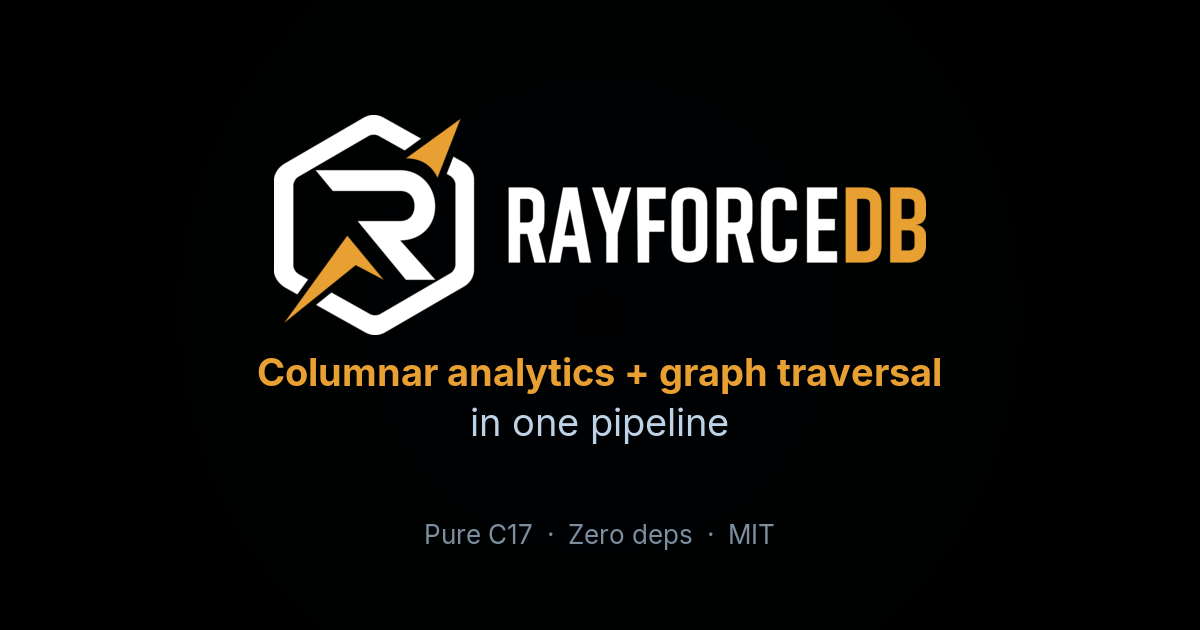
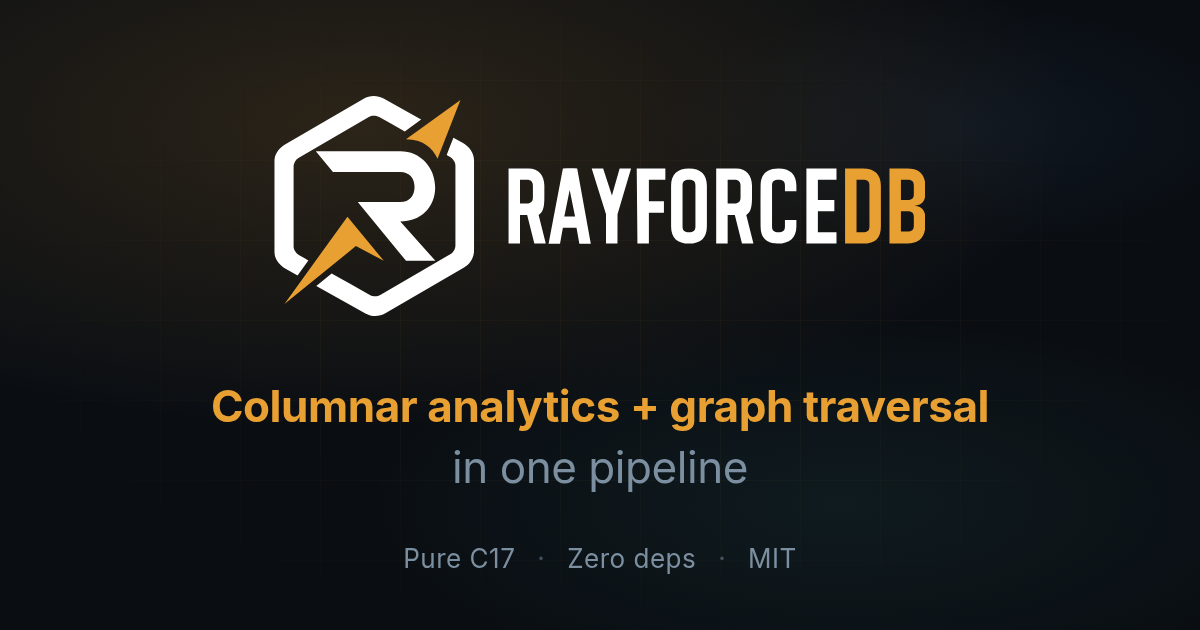
fix(seo): match OG image background to the site's hero
The previous OG image used a flat #0a0e13 base with a soft #1a1c20 ->
#0a0e13 multiply vignette, which read as plain black in Telegram /
Twitter unfurlers and didn't carry the brand. The site's hero is
deliberately layered: a warm orange radial top-left, weaker cyan and
blue radials on the opposite corners, and a faint 80px orange grid
masked at the edges. Regenerate og-image.png so the link preview
echoes that look instead of looking like default dark mode.

Also lands a reproducible build pipeline at scripts/og/ so the next
tweak is one command instead of shell archaeology:

- scripts/og/og.html mirrors the relevant hero CSS verbatim from
  website/style.css and embeds the local Inter / Oswald + the actual
  logo SVG, so the rendered preview stays in sync with the site
  (palette shifts touch both files in the same change).
- scripts/og/build.sh drives headless Chrome to screenshot, then
  crops with ImageMagick and re-encodes 8-bit non-alpha PNG24 to
  match the encoding contract from c1d1402e. The 1200x800 -> 1200x630
  crop compensates for headless Chrome reserving viewport rows for
  chrome UI even with --headless=new.

Resulting PNG is 293 KB, 1200x630, 8-bit sRGB non-alpha.

diff --git a/scripts/og/og.html b/scripts/og/og.html
@@ -1,0 +1,125 @@
+<!doctype html>
+<html lang="en">
+<head>
+  <meta charset="utf-8">
+  <title>OG image source</title>
+
+  <style>
+    /* ── Self-hosted fonts (mirrors website/style.css) ─────────────── */
+    @font-face {
+      font-family: 'Inter';
+      font-style: normal; font-weight: 400; font-display: block;
+      src: url('../../website/assets/fonts/inter-400.woff2') format('woff2');
+    }
+    @font-face {
+      font-family: 'Inter';
+      font-style: normal; font-weight: 700; font-display: block;
+      src: url('../../website/assets/fonts/inter-700.woff2') format('woff2');
+    }
+    @font-face {
+      font-family: 'Oswald';
+      font-style: normal; font-weight: 700; font-display: block;
+      src: url('../../website/assets/fonts/oswald-700.woff2') format('woff2');
+    }
+
+    /* ── Tokens (verbatim from website/style.css :root) ────────────── */
+    :root {
+      --bg: #0a0e13;
+      --primary: #e9a033;
+      --accent: #5eead4;
+      --accent-blue: #60a5fa;
+      --text: #f1f5f9;
+      --text-muted: #7b8fa0;
+    }
+
+    *, *::before, *::after { margin: 0; padding: 0; box-sizing: border-box; }
+
+    html, body {
+      margin: 0; padding: 0;
+      width: 1200px; height: 630px;
+      position: relative;
+      background: var(--bg);
+      color: var(--text);
+      font-family: 'Inter', sans-serif;
+      overflow: hidden;
+    }
+
+    /* ── Hero bg layers (verbatim from website/style.css:188-203) ──── */
+    .hero-bg { position: absolute; inset: 0; pointer-events: none; }
+
+    .hero-gradient {
+      position: absolute; inset: 0;
+      background:
+        radial-gradient(ellipse 100% 80% at 30% 20%, rgba(233, 160, 51, 0.15), transparent 60%),
+        radial-gradient(ellipse 80% 60% at 70% 80%, rgba(94, 234, 212, 0.06), transparent 50%),
+        radial-gradient(ellipse 50% 40% at 80% 20%, rgba(96, 165, 250, 0.06), transparent 50%);
+    }
+
+    .hero-grid-lines {
+      position: absolute; inset: 0;
+      background-image:
+        linear-gradient(rgba(233, 160, 51, 0.04) 1px, transparent 1px),
+        linear-gradient(90deg, rgba(233, 160, 51, 0.04) 1px, transparent 1px);
+      background-size: 80px 80px;
+      mask-image: radial-gradient(ellipse 80% 80% at 50% 50%, black 30%, transparent 70%);
+      -webkit-mask-image: radial-gradient(ellipse 80% 80% at 50% 50%, black 30%, transparent 70%);
+    }
+
+    /* ── OG composition (logo + tagline + footer) ──────────────────── */
+    .og {
+      position: absolute; top: 0; left: 0; z-index: 1;
+      width: 1200px; height: 630px;
+      text-align: center;
+    }
+
+    .og-logo {
+      position: absolute;
+      top: 96px; left: 50%;
+      transform: translateX(-50%);
+      height: 220px; width: auto;
+    }
+
+    .og-tagline {
+      position: absolute;
+      top: 380px; left: 0; right: 0;
+      font-family: 'Inter', sans-serif;
+      font-weight: 700;
+      font-size: 44px;
+      line-height: 1.2;
+      letter-spacing: -0.01em;
+    }
+    .og-tagline .accent { color: var(--primary); }
+    .og-tagline .rest   { color: var(--text-muted); display: block; margin-top: 8px; font-weight: 400; }
+
+    .og-meta {
+      position: absolute;
+      bottom: 56px; left: 0; right: 0;
+      font-family: 'Inter', sans-serif;
+      font-weight: 400;
+      font-size: 26px;
+      color: var(--text-muted);
+      letter-spacing: 0.02em;
+    }
+    .og-meta .dot { color: var(--text-muted); opacity: 0.5; margin: 0 14px; }
+  </style>
+</head>
+<body>
+  <div class="hero-bg">
+    <div class="hero-gradient"></div>
+    <div class="hero-grid-lines"></div>
+  </div>
+
+  <div class="og">
+    <img class="og-logo" src="../../website/assets/logo-light-full.svg" alt="RayforceDB">
+
+    <p class="og-tagline">
+      <span class="accent">Columnar analytics + graph traversal</span>
+      <span class="rest">in one pipeline</span>
+    </p>
+
+    <p class="og-meta">
+      Pure C17 <span class="dot">&middot;</span> Zero deps <span class="dot">&middot;</span> MIT
+    </p>
+  </div>
+</body>
+</html>